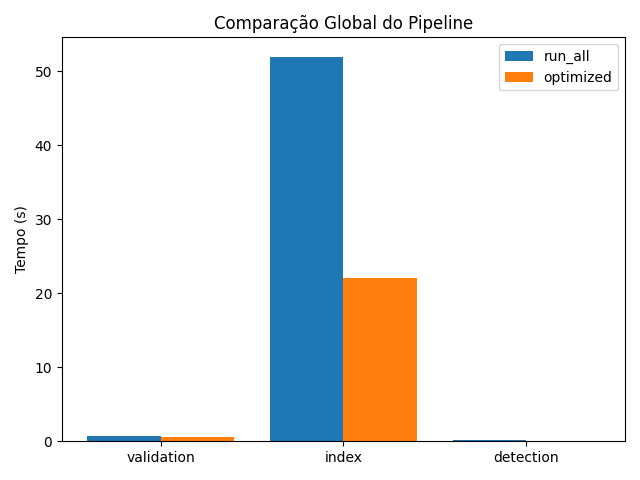
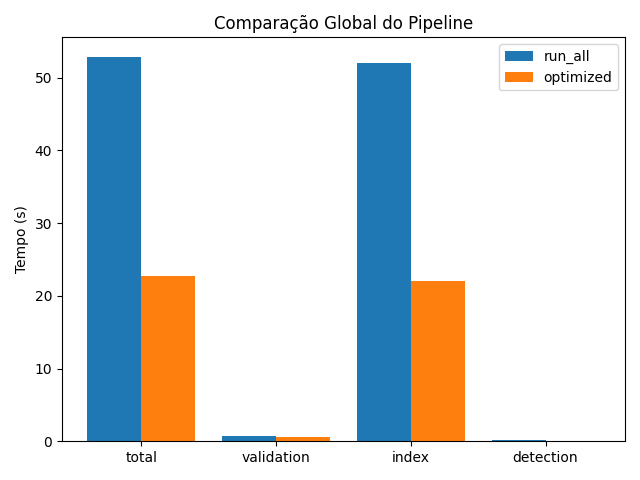
final

diff --git a/graficorun.py b/graficorun.py
@@ -26,41 +26,49 @@ global_all = pd.read_csv(RUN_ALL_GLOBAL)
 global_opt = pd.read_csv(RUN_OPT_GLOBAL)
 
 
+
+
 # ============================
-# 1. COMPARAÇÃO MÉTODOS
+# 1. COMPARAÇÃO MÉTODOS (3 COLUNAS)
 # ============================
 plt.figure()
 
-# garantir que só compara métodos comuns
-common_methods = set(df_all["method"])
+# dados
+methods = df_all["method"]
+index_time = df_all["index_time_s"]
+detection_time = df_all["detection_time_s"]
+total_time = df_all["total_time_s"]
 
-df_all_filtered = df_all[df_all["method"].isin(common_methods)]
+# posições
+x = list(range(len(methods)))
 
+# largura das barras
+width = 0.25
 
-# ordenar igual
-df_all_filtered = df_all_filtered.set_index("method").loc[sorted(common_methods)]
+# barras
+plt.bar([i - width for i in x], index_time, width=width, label="Indexação")
+plt.bar(x, detection_time, width=width, label="Deteção")
+plt.bar([i + width for i in x], total_time, width=width, label="Total")
 
-x = range(len(common_methods))
-
-plt.bar([i - 0.2 for i in x], df_all_filtered["total_time_s"], width=0.4, label="run_all")
-
-
-plt.xticks(x, df_all_filtered.index, rotation=45)
-plt.ylabel("Tempo total (s)")
-plt.title("Comparação de Métodos: run_all")
+# labels
+plt.xticks(x, methods, rotation=45)
+plt.ylabel("Tempo (s)")
+plt.title("Comparação de Tempos por Método (run_all)")
 plt.legend()
-plt.tight_layout()
 
-plt.savefig("comparacao_metodos.png")
+plt.tight_layout()
+plt.savefig("metodos_3_colunas.png")
 plt.show()
+
 
 
 # ============================
 # 2. COMPARAÇÃO GLOBAL
 # ============================
-labels = ["validation", "index", "detection"]
+labels = ["total", "validation", "index", "detection"]
 
 all_times = [
+    global_all["total_pipeline_time_s"][0],
     global_all["validation_s"][0],
     global_all["index_s"][0],
     global_all["detection_s"][0]
@@ -68,6 +76,7 @@ all_times = [
 
 
 opt_times = [
+    global_opt["total_pipeline_time_s"][0],
     global_opt["validation_s"][0],
     global_opt["index_s"][0],
     global_opt["detection_s"][0]

diff --git a/grafico.py b/grafico.py
@@ -1,26 +1,43 @@
 import pandas as pd
 import matplotlib.pyplot as plt
 from pathlib import Path
+
+# ============================
+# PATH (portável)
+# ============================
 PROJECT_ROOT = Path(__file__).resolve().parent
-# PATH
 CSV_PATH = PROJECT_ROOT / "data" / "outputs" / "benchmark_final.csv"
 
+# ============================
+# LOAD
+# ============================
 df = pd.read_csv(CSV_PATH)
 
-# extrair dados
+# remover pipelines (não têm accuracy)
+df = df.dropna(subset=["duplicate_success_rate", "similarity_success_rate"])
+
+# ============================
+# EXTRAIR DADOS
+# ============================
 methods = df["method"]
-times = df["total_time_s"]
+dup_rate = df["duplicate_success_rate"]
+sim_rate = df["similarity_success_rate"]
 
-# gráfico
+x = range(len(methods))
+
+# ============================
+# GRÁFICO
+# ============================
 plt.figure()
-plt.bar(methods, times)
 
-plt.title("Tempo total por método")
-plt.xlabel("Método")
-plt.ylabel("Tempo (s)")
+plt.bar([i - 0.2 for i in x], dup_rate, width=0.4, label="Duplicados (%)")
+plt.bar([i + 0.2 for i in x], sim_rate, width=0.4, label="Semelhantes (%)")
 
-plt.xticks(rotation=45)
+plt.xticks(x, methods, rotation=45)
+plt.ylabel("Taxa de Sucesso (%)")
+plt.title("Desempenho por Método")
+plt.legend()
+
 plt.tight_layout()
-
-plt.savefig("grafico_metodos.png")
+plt.savefig("grafico_accuracy.png")
 plt.show()